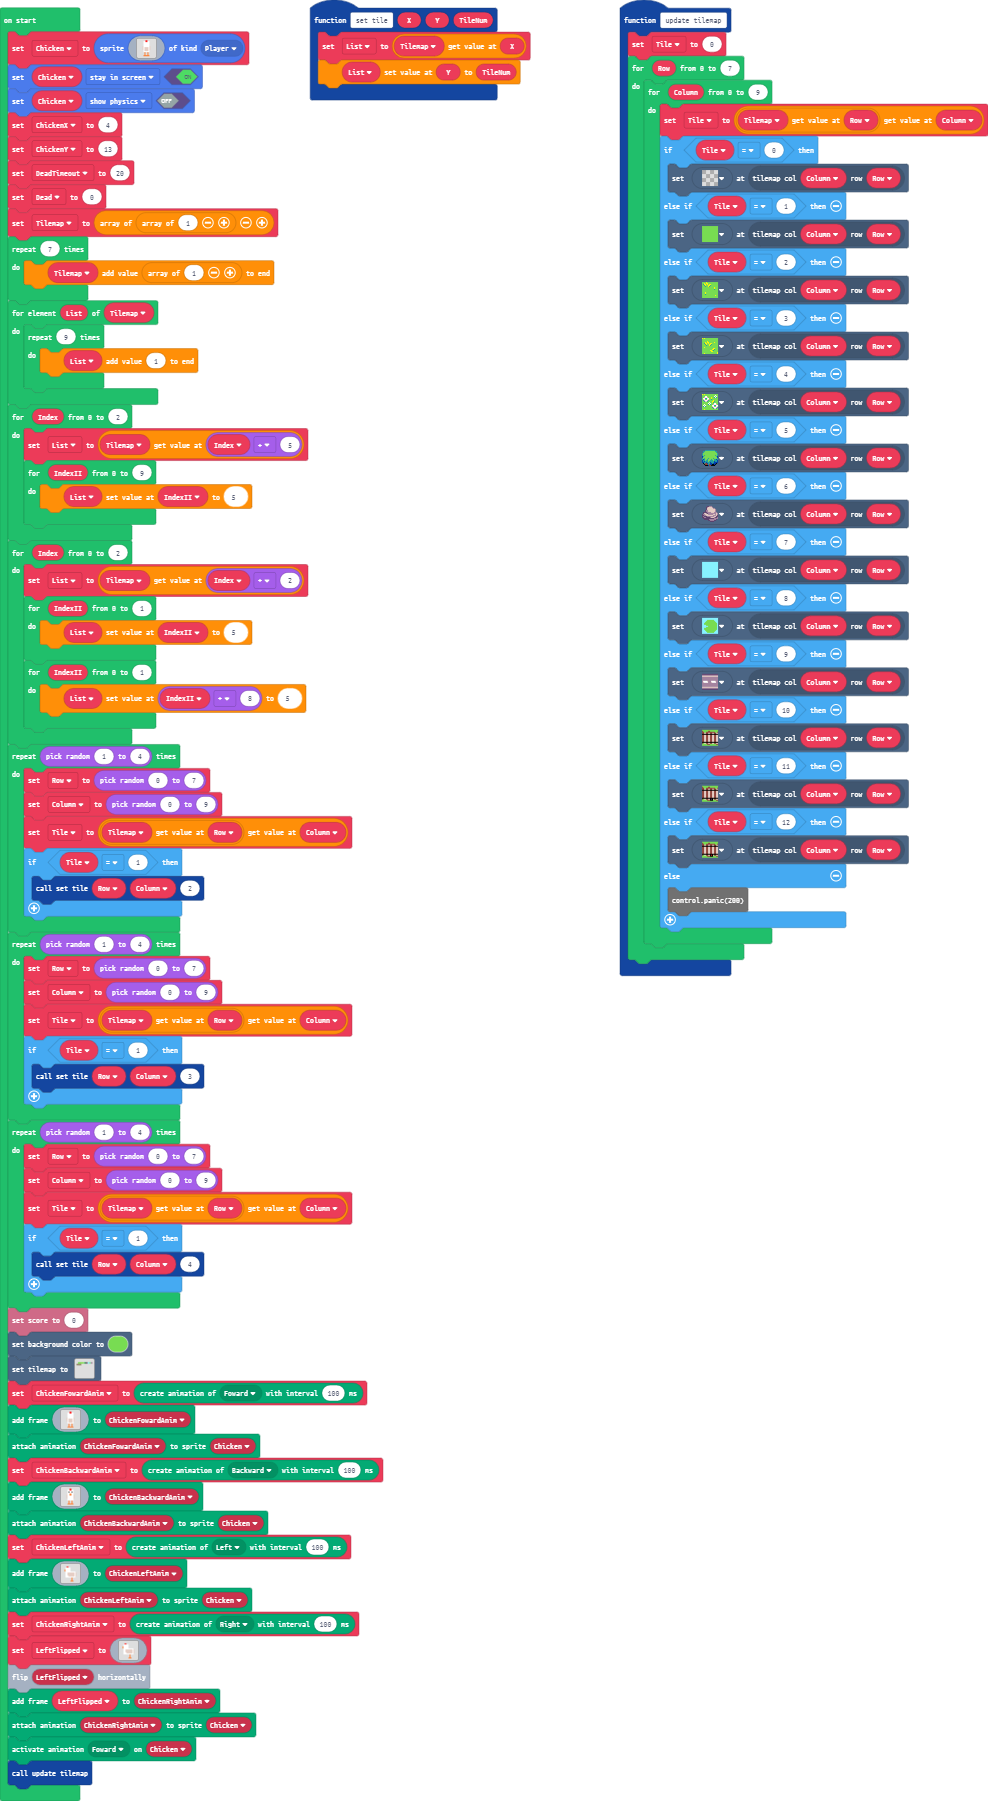
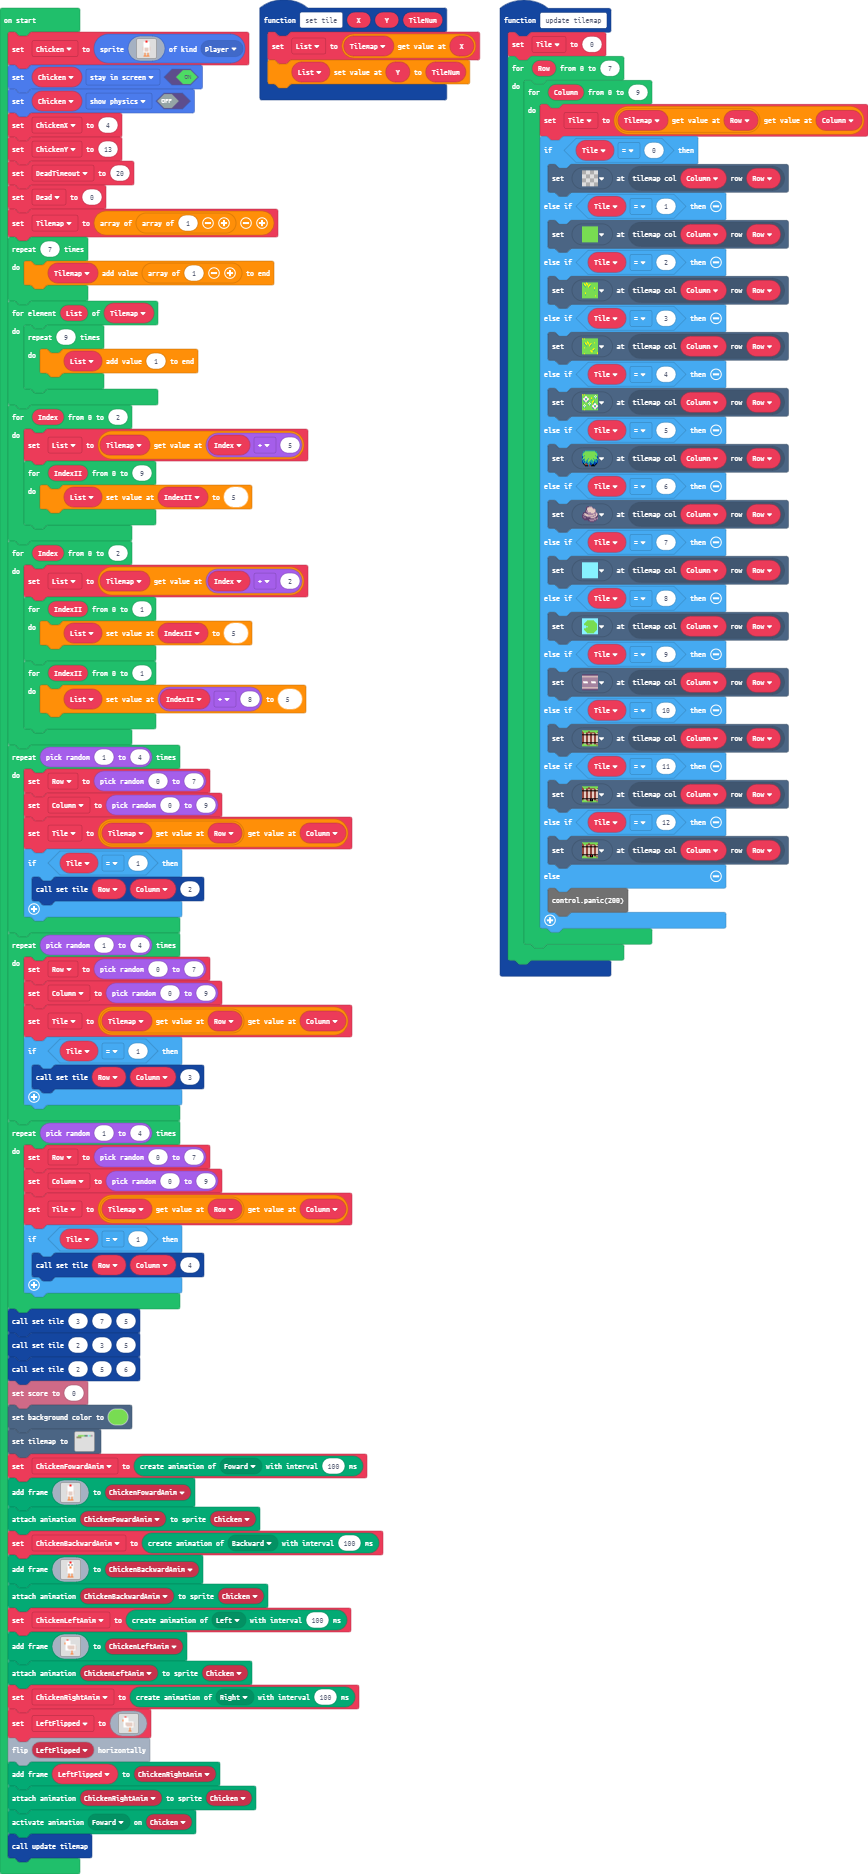
Finished starting terrain

diff --git a/main.ts b/main.ts
@@ -260,6 +260,9 @@ for (let index = 0; index < Math.randomRange(1, 4); index++) {
         set_tile(Row, Column, 4)
     }
 }
+set_tile(3, 7, 5)
+set_tile(2, 3, 5)
+set_tile(2, 5, 6)
 info.setScore(0)
 scene.setBackgroundColor(7)
 tiles.setTilemap(tiles.createTilemap(
